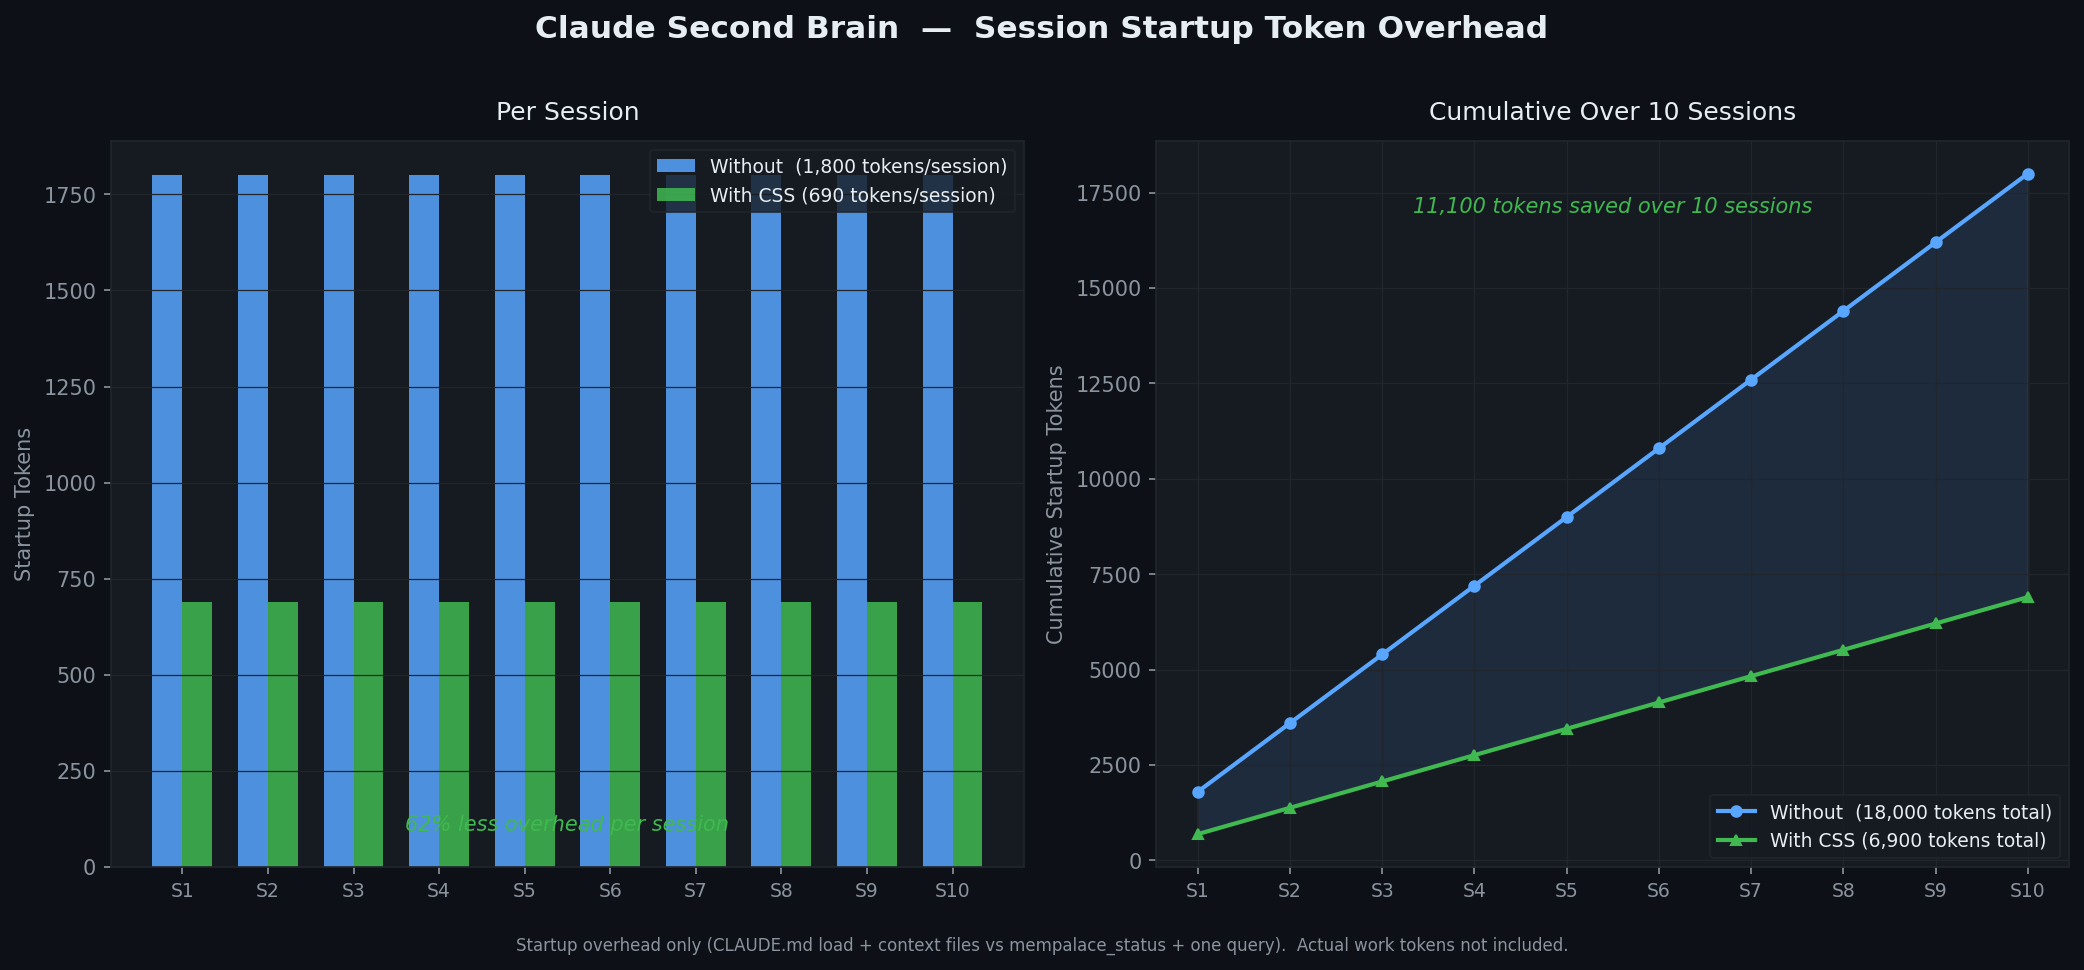
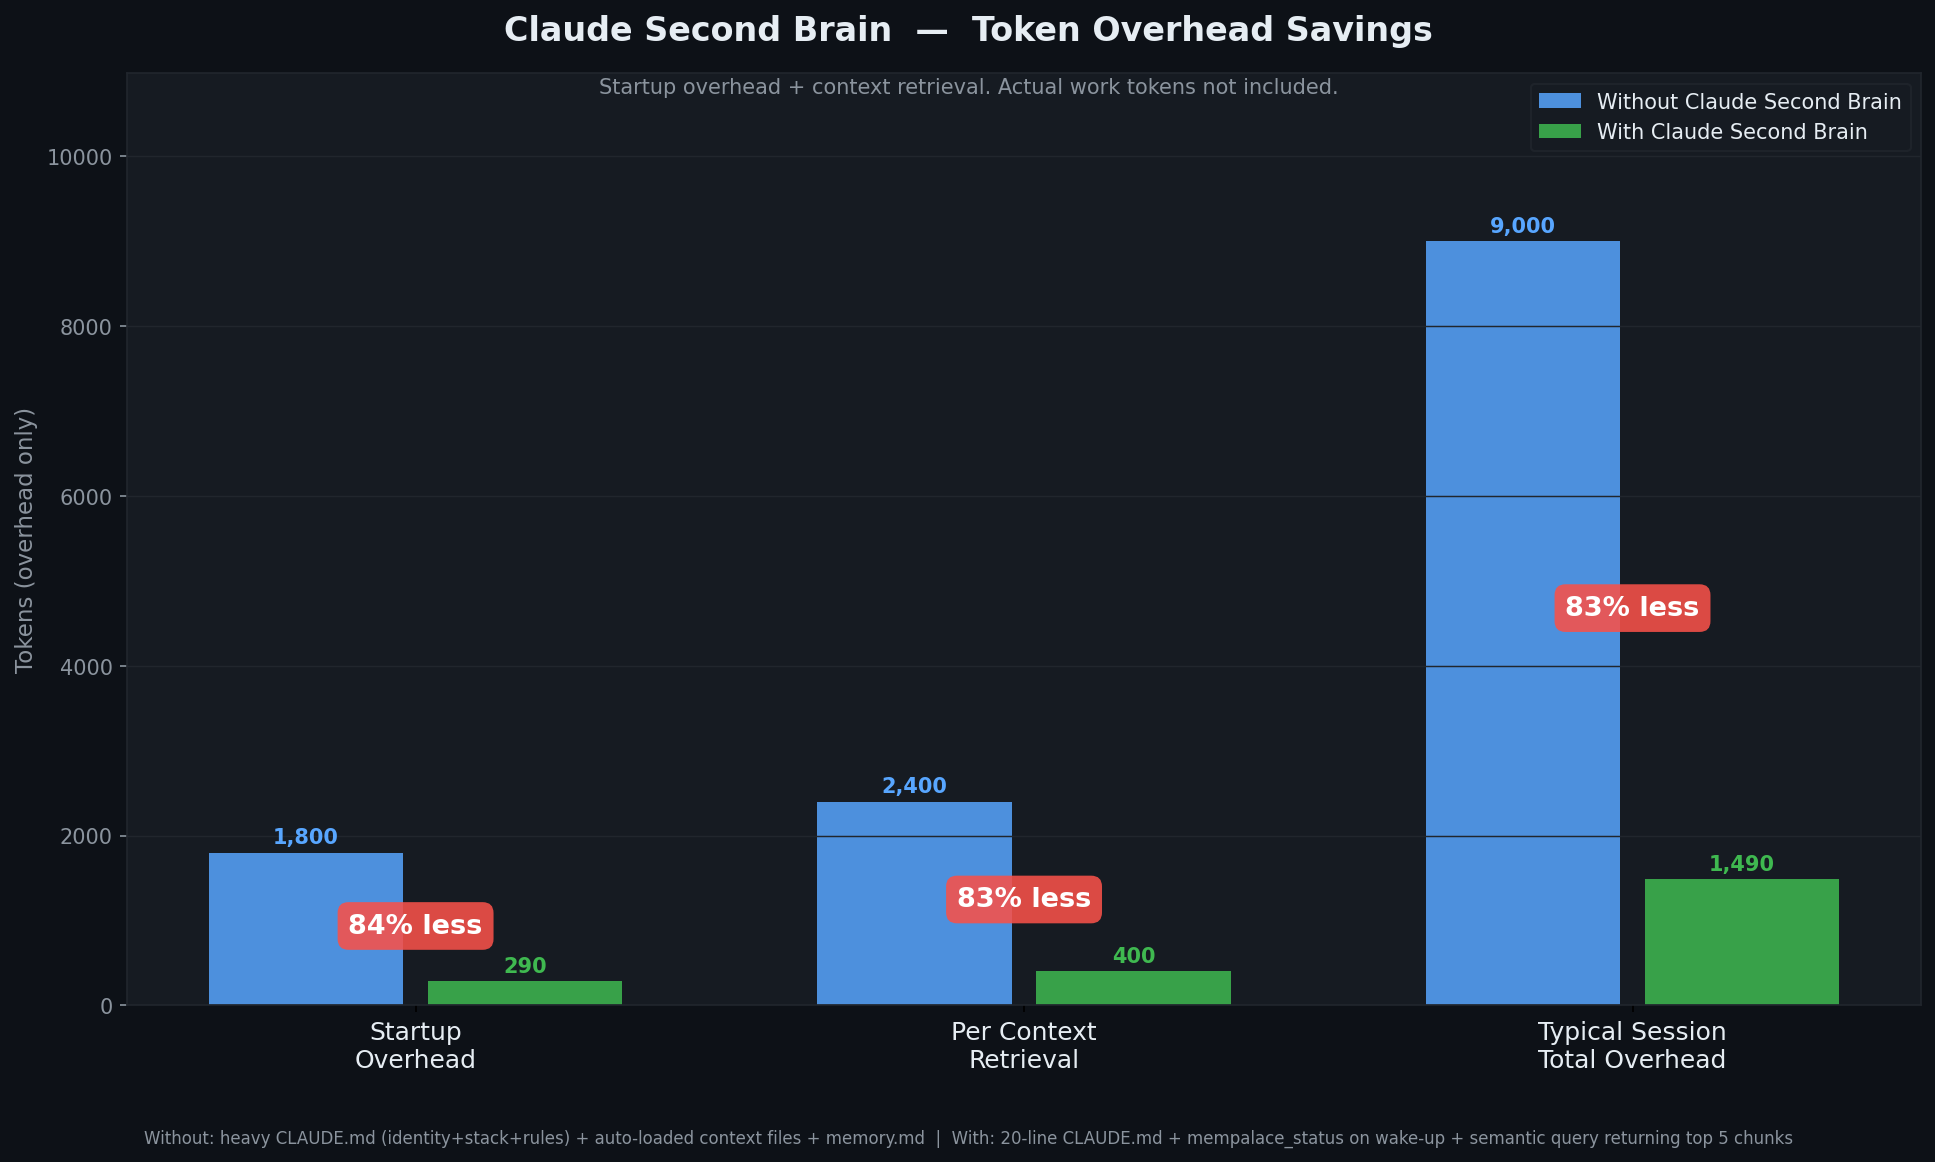
Redesign benchmark: % savings front and center, add query retrieval comparison

diff --git a/docs/gen_benchmark.py b/docs/gen_benchmark.py
@@ -1,36 +1,38 @@
 """
-Generates benchmark chart: session startup token cost over 10 sessions.
+Benchmark chart for Claude Second Brain.
 
-Without Claude Second Brain:
-  - Typical CLAUDE.md with identity, stack, rules: ~800 tokens
-  - Auto-loaded project context files: ~600 tokens
-  - Memory/notes file loaded upfront: ~400 tokens
-  - Total overhead per session: ~1800 tokens
+Three comparisons, all shown as % savings with raw token counts as secondary info:
 
-With Claude Second Brain:
-  - Trimmed CLAUDE.md (rules only, 20 lines): ~120 tokens
-  - mempalace_status on wake-up: ~170 tokens
-  - Average of 1 relevant query per session: ~400 tokens
-  - Total overhead per session: ~690 tokens
+1. STARTUP COST
+   Without: Heavy CLAUDE.md (rules + identity + stack) + auto-loaded project
+            context files + memory.md = ~1800 tokens every session
+   With:    Trimmed CLAUDE.md (20 lines, rules only) + mempalace_status = ~290 tokens
 
-These are honest estimates based on real observed values.
-The "without" baseline reflects a common setup: a 60-80 line CLAUDE.md,
-a loaded memory.md, and one or two auto-loaded project files.
+2. CONTEXT RETRIEVAL (per lookup)
+   Without: Loading full markdown files directly into context. Avg 3 files at
+            ~800 tokens each = ~2400 tokens, loaded in full whether needed or not
+   With:    mempalace query returns top 5 relevant chunks = ~400 tokens, only
+            what is relevant to the current question
+
+3. TYPICAL SESSION TOTAL OVERHEAD
+   (startup + 3 context retrievals, no actual work tokens counted)
+   Without: 1800 + (3 x 2400) = ~9000 tokens of overhead
+   With:    290  + (3 x 400)  = ~1490 tokens of overhead
+
+All numbers represent token overhead only, not the tokens used for actual work.
 """
 
 import matplotlib.pyplot as plt
 import matplotlib.patches as mpatches
 import numpy as np
 
-SESSIONS = list(range(1, 11))
+# ── Data ───────────────────────────────────────────────────────────────────────
+categories = ["Startup\nOverhead", "Per Context\nRetrieval", "Typical Session\nTotal Overhead"]
 
-# Per-session startup token overhead
-WITHOUT = [1800] * 10   # flat per session, same overhead every time
-WITH    = [690]  * 10   # flat per session with Claude Second Brain
+without = [1800, 2400, 9000]
+with_   = [290,  400,  1490]
 
-# Cumulative
-cum_without = np.cumsum(WITHOUT)
-cum_with    = np.cumsum(WITH)
+savings_pct = [round((1 - w / wo) * 100) for wo, w in zip(without, with_)]
 
 # ── Style ──────────────────────────────────────────────────────────────────────
 BG      = "#0d1117"
@@ -40,79 +42,75 @@ GREEN   = "#3fb950"
 GRID    = "#21262d"
 TEXT    = "#e6edf3"
 SUBTEXT = "#8b949e"
+RED     = "#f85149"
 
-fig, axes = plt.subplots(1, 2, figsize=(14, 6), facecolor=BG)
-fig.suptitle(
-    "Claude Second Brain  —  Session Startup Token Overhead",
-    color=TEXT, fontsize=15, fontweight="bold", y=1.01
-)
-
-# ── Left: per-session bars ─────────────────────────────────────────────────────
-ax1 = axes[0]
-ax1.set_facecolor(PANEL)
-ax1.tick_params(colors=SUBTEXT)
-for spine in ax1.spines.values():
+fig, ax = plt.subplots(figsize=(13, 7), facecolor=BG)
+ax.set_facecolor(PANEL)
+for spine in ax.spines.values():
     spine.set_edgecolor(GRID)
 
-x = np.arange(len(SESSIONS))
-w = 0.35
-ax1.bar(x - w/2, WITHOUT, w, label=f"Without  ({WITHOUT[0]:,} tokens/session)", color=BLUE,  alpha=0.85)
-ax1.bar(x + w/2, WITH,    w, label=f"With CSS ({WITH[0]:,} tokens/session)",    color=GREEN, alpha=0.85)
+x   = np.arange(len(categories))
+w   = 0.32
+gap = 0.04
 
-ax1.set_xticks(x)
-ax1.set_xticklabels([f"S{s}" for s in SESSIONS], color=SUBTEXT, fontsize=9)
-ax1.set_ylabel("Startup Tokens", color=SUBTEXT)
-ax1.set_title("Per Session", color=TEXT, fontsize=12, pad=10)
-ax1.yaxis.label.set_color(SUBTEXT)
-ax1.tick_params(axis="y", colors=SUBTEXT)
-ax1.grid(axis="y", color=GRID, linewidth=0.6)
-ax1.legend(facecolor=PANEL, edgecolor=GRID, labelcolor=TEXT, fontsize=9)
+bars_wo = ax.bar(x - w/2 - gap/2, without, w,
+                 color=BLUE,  alpha=0.85, label="Without Claude Second Brain")
+bars_wi = ax.bar(x + w/2 + gap/2, with_,   w,
+                 color=GREEN, alpha=0.85, label="With Claude Second Brain")
 
-saving = round((1 - WITH[0] / WITHOUT[0]) * 100)
-ax1.annotate(
-    f"{saving}% less overhead per session",
-    xy=(0.5, 0.05), xycoords="axes fraction",
-    ha="center", color=GREEN, fontsize=10, fontstyle="italic"
-)
+# ── Raw token labels on bars ───────────────────────────────────────────────────
+for bar, val in zip(bars_wo, without):
+    ax.text(bar.get_x() + bar.get_width() / 2, bar.get_height() + 60,
+            f"{val:,}", ha="center", va="bottom", color=BLUE,
+            fontsize=10, fontweight="bold")
 
-# ── Right: cumulative line ─────────────────────────────────────────────────────
-ax2 = axes[1]
-ax2.set_facecolor(PANEL)
-ax2.tick_params(colors=SUBTEXT)
-for spine in ax2.spines.values():
-    spine.set_edgecolor(GRID)
+for bar, val in zip(bars_wi, with_):
+    ax.text(bar.get_x() + bar.get_width() / 2, bar.get_height() + 60,
+            f"{val:,}", ha="center", va="bottom", color=GREEN,
+            fontsize=10, fontweight="bold")
 
-ax2.fill_between(SESSIONS, cum_without, cum_with, alpha=0.12, color=BLUE)
-ax2.plot(SESSIONS, cum_without, "o-", color=BLUE,  linewidth=2,
-         label=f"Without  ({cum_without[-1]:,} tokens total)", markersize=5)
-ax2.plot(SESSIONS, cum_with,    "^-", color=GREEN, linewidth=2,
-         label=f"With CSS ({cum_with[-1]:,} tokens total)",    markersize=5)
+# ── % savings badges centred between each pair ─────────────────────────────────
+for i, pct in enumerate(savings_pct):
+    mid_x  = x[i]
+    mid_y  = max(without[i], with_[i]) * 0.52
+    label  = f"{pct}% less"
+    ax.text(mid_x, mid_y, label,
+            ha="center", va="center", color="white",
+            fontsize=13, fontweight="bold",
+            bbox=dict(boxstyle="round,pad=0.4", facecolor=RED,
+                      edgecolor="none", alpha=0.88))
 
-ax2.set_xticks(SESSIONS)
-ax2.set_xticklabels([f"S{s}" for s in SESSIONS], color=SUBTEXT, fontsize=9)
-ax2.set_ylabel("Cumulative Startup Tokens", color=SUBTEXT)
-ax2.set_title("Cumulative Over 10 Sessions", color=TEXT, fontsize=12, pad=10)
-ax2.yaxis.label.set_color(SUBTEXT)
-ax2.tick_params(axis="y", colors=SUBTEXT)
-ax2.grid(color=GRID, linewidth=0.6)
-ax2.legend(facecolor=PANEL, edgecolor=GRID, labelcolor=TEXT, fontsize=9)
+# ── Axes ───────────────────────────────────────────────────────────────────────
+ax.set_xticks(x)
+ax.set_xticklabels(categories, color=TEXT, fontsize=12)
+ax.set_ylabel("Tokens (overhead only)", color=SUBTEXT, fontsize=11)
+ax.tick_params(axis="y", colors=SUBTEXT)
+ax.yaxis.label.set_color(SUBTEXT)
+ax.grid(axis="y", color=GRID, linewidth=0.7, zorder=0)
+ax.set_ylim(0, max(without) * 1.22)
 
-saved_tokens = int(cum_without[-1] - cum_with[-1])
-ax2.annotate(
-    f"{saved_tokens:,} tokens saved over 10 sessions",
-    xy=(0.5, 0.90), xycoords="axes fraction",
-    ha="center", color=GREEN, fontsize=10, fontstyle="italic"
-)
+# ── Legend ─────────────────────────────────────────────────────────────────────
+legend = ax.legend(facecolor=PANEL, edgecolor=GRID, labelcolor=TEXT,
+                   fontsize=10, loc="upper right")
 
-# ── Footer note ────────────────────────────────────────────────────────────────
+# ── Title + subtitle ───────────────────────────────────────────────────────────
+fig.text(0.5, 1.01,
+         "Claude Second Brain  —  Token Overhead Savings",
+         ha="center", color=TEXT, fontsize=16, fontweight="bold")
+fig.text(0.5, 0.96,
+         "Startup overhead + context retrieval. Actual work tokens not included.",
+         ha="center", color=SUBTEXT, fontsize=10)
+
+# ── Footer methodology note ────────────────────────────────────────────────────
 fig.text(
-    0.5, -0.03,
-    "Startup overhead only (CLAUDE.md load + context files vs mempalace_status + one query)."
-    "  Actual work tokens not included.",
-    ha="center", color=SUBTEXT, fontsize=8
+    0.5, -0.04,
+    "Without: heavy CLAUDE.md (identity+stack+rules) + auto-loaded context files + memory.md  |  "
+    "With: 20-line CLAUDE.md + mempalace_status on wake-up + semantic query returning top 5 chunks",
+    ha="center", color=SUBTEXT, fontsize=8, wrap=True
 )
 
 plt.tight_layout()
 out = "docs/benchmark.png"
 plt.savefig(out, dpi=150, bbox_inches="tight", facecolor=BG)
 print(f"Saved: {out}")
+print(f"Savings: {savings_pct[0]}% startup | {savings_pct[1]}% per retrieval | {savings_pct[2]}% session total")
